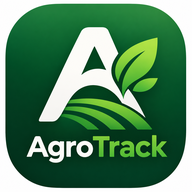
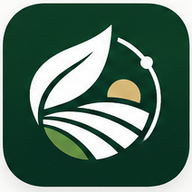
Add files via upload

diff --git a/index.html b/index.html
@@ -1,24 +1,27 @@
 <!doctype html><html lang="el"><head><meta charset="utf-8"><meta name="viewport" content="width=device-width,initial-scale=1">
-<title>AgroTrack v3.7.1</title><script src="https://cdn.jsdelivr.net/npm/@supabase/supabase-js@2"></script>
+<title>GeoFylo v3.8</title><script src="https://cdn.jsdelivr.net/npm/@supabase/supabase-js@2"></script>
 <script src="https://cdn.jsdelivr.net/npm/xlsx@0.18.5/dist/xlsx.full.min.js"></script>
 
 <style>
 body{font-family:system-ui;margin:0;background:#f4f7f2;color:#17301f}.app{max-width:700px;margin:auto;padding:20px}.card{background:white;padding:18px;border-radius:18px;margin:12px 0;border:1px solid #dfe7df}
 input,select,button{width:100%;padding:12px;margin:5px 0;border-radius:10px;border:1px solid #ccd8cd;font-size:16px;box-sizing:border-box}button{background:#216b3a;color:white;font-weight:bold;border:0}.soft{background:#e8f3e8;color:#216b3a}.hidden{display:none}.grid{display:grid;grid-template-columns:1fr 1fr;gap:8px}.metrics{display:grid;grid-template-columns:1fr 1fr;gap:8px}.m{background:#f7faf6;padding:12px;border-radius:12px}.m b{display:block;font-size:20px}small{color:#718078}.entry{display:flex;justify-content:space-between;gap:10px;align-items:center;padding:10px 0;border-bottom:1px solid #edf0ed}.entry:last-child{border-bottom:0}.entryText{flex:1}.entryActions{display:flex;gap:5px}.entryActions button{width:auto;padding:7px 9px;margin:0}.danger{background:#f7eaea;color:#9c2f2f}.voice{background:#365f47}h1{margin-bottom:2px}.quickGrid{display:grid;grid-template-columns:1fr 1fr;gap:10px;margin-top:12px}.quickGrid button{min-height:70px;font-size:17px}.quickVoice{margin-top:10px;min-height:58px;font-size:17px}.quickSummary{margin-top:12px;padding:12px;border-radius:12px;background:#f5f8f5}.quickSummary b{font-size:18px}.barrow{margin:10px 0}.barlabel{display:flex;justify-content:space-between;font-size:13px}.bar{height:10px;background:#edf2ed;border-radius:99px;overflow:hidden}.bar>i{display:block;height:100%;background:#216b3a;border-radius:99px}.reportTitle{display:flex;justify-content:space-between;align-items:center;gap:8px}
-.page{display:none}.page.active{display:block}.bottomNav{background:white;border-bottom:1px solid #dfe7df;display:grid;grid-template-columns:repeat(11,1fr);gap:2px;padding:6px 2px;margin:12px 0}.bottomNav button{background:white;color:#526357;padding:8px 2px;margin:0;font-size:11px;min-height:54px}.bottomNav button.active{background:#e8f3e8;color:#216b3a}.ico{display:block;font-size:20px}.dashGrid{display:grid;grid-template-columns:repeat(2,1fr);gap:8px;margin-top:12px}.dashBox{background:#f7faf6;padding:12px;border-radius:12px;border:1px solid #e4ece4}.dashBox small{display:block}.dashBox b{display:block;font-size:19px;margin-top:3px}.dashAlert{padding:10px 12px;border-radius:10px;background:#fff8e8;margin:7px 0;cursor:pointer}.dashAlert:hover{filter:brightness(.98)}.dashOk{padding:10px 12px;border-radius:10px;background:#eef8ef;margin:7px 0}@media(max-width:480px){.dashGrid{grid-template-columns:1fr 1fr}}</style><meta name="theme-color" content="#216b3a">
+.page{display:none}.page.active{display:block}.bottomNav{background:white;border-bottom:1px solid #dfe7df;display:grid;grid-template-columns:repeat(11,1fr);gap:2px;padding:6px 2px;margin:12px 0}.bottomNav button{background:white;color:#526357;padding:8px 2px;margin:0;font-size:11px;min-height:54px}.bottomNav button.active{background:#e8f3e8;color:#216b3a}.ico{display:block;font-size:20px}.dashGrid{display:grid;grid-template-columns:repeat(2,1fr);gap:8px;margin-top:12px}.dashBox{background:#f7faf6;padding:12px;border-radius:12px;border:1px solid #e4ece4}.dashBox small{display:block}.dashBox b{display:block;font-size:19px;margin-top:3px}.dashAlert{padding:10px 12px;border-radius:10px;background:#fff8e8;margin:7px 0;cursor:pointer}.dashAlert:hover{filter:brightness(.98)}.dashOk{padding:10px 12px;border-radius:10px;background:#eef8ef;margin:7px 0}@media(max-width:480px){.dashGrid{grid-template-columns:1fr 1fr}}
+.brand{display:flex;align-items:center;gap:10px}.brand img{width:46px;height:46px;border-radius:12px;object-fit:cover}
+@media(max-width:700px){.app{padding:14px}.bottomNav{display:flex;overflow-x:auto;overflow-y:hidden;gap:4px;padding:6px 4px;scroll-snap-type:x proximity;-webkit-overflow-scrolling:touch;scrollbar-width:none}.bottomNav::-webkit-scrollbar{display:none}.bottomNav button{flex:0 0 82px;min-width:82px;scroll-snap-align:start;padding:8px 4px;font-size:11px}.ico{font-size:20px}}
+</style><meta name="theme-color" content="#216b3a">
 <meta name="apple-mobile-web-app-capable" content="yes">
 <meta name="apple-mobile-web-app-status-bar-style" content="default">
-<meta name="apple-mobile-web-app-title" content="AgroTrack">
+<meta name="apple-mobile-web-app-title" content="GeoFylo">
 <link rel="manifest" href="./manifest.webmanifest">
 <link rel="apple-touch-icon" href="./icon-192.png">
 </head><body><div class="app">
-<div id="auth"><h1>🌱 AgroTrack</h1><small>v3.7.1 • Cloud</small><div class="card">
+<div id="auth"><h1 class="brand"><img src="./icon-192.png" alt="">GeoFylo</h1><small>v3.8 • Cloud</small><div class="card">
 <h2 id="authTitle">Σύνδεση</h2><div id="nameBox" class="hidden"><input id="name" placeholder="Ονοματεπώνυμο"></div>
 <input id="email" type="email" placeholder="Email"><input id="pass" type="password" placeholder="Κωδικός (6+ χαρακτήρες)">
 <button onclick="submitAuth()" id="authBtn">Σύνδεση</button><button class="soft" onclick="toggleAuth()" id="toggleBtn">Δεν έχω λογαριασμό — Εγγραφή</button>
 <p id="msg"></p></div></div>
 
-<div id="main" class="hidden"><h1>🌱 AgroTrack</h1><small id="who"></small><nav class="bottomNav"><button id="nav-home" class="active" onclick="showPage('home')"><span class="ico">🏠</span>Αρχική</button><button id="nav-entry" onclick="showPage('entry')"><span class="ico">➕</span>Καταχώρηση</button><button id="nav-movements" onclick="showPage('movements')"><span class="ico">🧾</span>Κινήσεις</button><button id="nav-calendar" onclick="showPage('calendar')"><span class="ico">📅</span>Ημερολόγιο</button><button id="nav-reports" onclick="showPage('reports')"><span class="ico">📊</span>Αναφορές</button><button id="nav-customers" onclick="showPage('customers')"><span class="ico">👥</span>Πελάτες</button><button id="nav-payments" onclick="showPage('payments')"><span class="ico">💳</span>Πληρωμές</button><button id="nav-inventory" onclick="showPage('inventory')"><span class="ico">📦</span>Αποθήκη</button><button id="nav-suppliers" onclick="showPage('suppliers')"><span class="ico">🏪</span>Προμηθευτές</button><button id="nav-cashflow" onclick="showPage('cashflow')"><span class="ico">💰</span>Ταμείο</button><button id="nav-profile" onclick="showPage('profile')"><span class="ico">👤</span>Προφίλ</button></nav>
+<div id="main" class="hidden"><h1 class="brand"><img src="./icon-192.png" alt="">GeoFylo</h1><small id="who"></small><nav class="bottomNav"><button id="nav-home" class="active" onclick="showPage('home')"><span class="ico">🏠</span>Αρχική</button><button id="nav-entry" onclick="showPage('entry')"><span class="ico">➕</span>Καταχώρηση</button><button id="nav-movements" onclick="showPage('movements')"><span class="ico">🧾</span>Κινήσεις</button><button id="nav-calendar" onclick="showPage('calendar')"><span class="ico">📅</span>Ημερολόγιο</button><button id="nav-reports" onclick="showPage('reports')"><span class="ico">📊</span>Αναφορές</button><button id="nav-customers" onclick="showPage('customers')"><span class="ico">👥</span>Πελάτες</button><button id="nav-payments" onclick="showPage('payments')"><span class="ico">💳</span>Πληρωμές</button><button id="nav-inventory" onclick="showPage('inventory')"><span class="ico">📦</span>Αποθήκη</button><button id="nav-suppliers" onclick="showPage('suppliers')"><span class="ico">🏪</span>Προμηθευτές</button><button id="nav-cashflow" onclick="showPage('cashflow')"><span class="ico">💰</span>Ταμείο</button><button id="nav-profile" onclick="showPage('profile')"><span class="ico">👤</span>Προφίλ</button></nav>
 <div id="page-home" class="page active"><div class="card" id="producerHome">
 <h2 style="margin:0" id="tQuick">🌱 Γρήγορη καταχώρηση</h2>
 <small id="tChoose">Επίλεξε τι θέλεις να καταχωρήσεις</small>
@@ -229,15 +232,15 @@ async function exportPDF(){
    ...(sa||[]).map(x=>[x.sale_date,'Πώληση'+(x.grade?' ('+(x.grade==='SKARTA'?'Σκάρτα':x.grade)+')':''),x.kg+' kg × '+money(x.price_per_kg),money(Number(x.kg)*Number(x.price_per_kg)),x.buyer||x.note||'']),
    ...(ac||[]).map(x=>[x.activity_date,'Εργασία',x.activity_type,'',x.note||''])
   ].sort((a,b)=>b[0].localeCompare(a[0]));
-  const html=`<!doctype html><html lang="el"><head><meta charset="utf-8"><title>AgroTrack Αναφορά</title><style>
+  const html=`<!doctype html><html lang="el"><head><meta charset="utf-8"><title>GeoFylo Αναφορά</title><style>
   body{font-family:Arial,sans-serif;color:#17251b;margin:32px}h1{color:#174f2c;margin-bottom:4px}h2{margin-top:28px}.muted{color:#66736a}.grid{display:grid;grid-template-columns:repeat(3,1fr);gap:10px}.box{border:1px solid #d9e2da;border-radius:10px;padding:12px}.big{font-size:22px;font-weight:bold}table{width:100%;border-collapse:collapse;margin-top:10px;font-size:12px}th,td{border-bottom:1px solid #ddd;padding:7px;text-align:left}th{background:#eef5ef}@media print{body{margin:12mm}.noPrint{display:none}}@page{size:A4;margin:12mm}</style></head><body>
-  <h1>🌱 AgroTrack</h1><div class="muted">Αναφορά Παραγωγού</div>
+  <h1>🌱 GeoFylo</h1><div class="muted">Αναφορά Παραγωγού</div>
   <h2>👤 Στοιχεία Παραγωγού</h2><table><tbody><tr><th>Ονοματεπώνυμο</th><td>${esc(profile?.full_name||user.user_metadata?.full_name||'—')}</td></tr><tr><th>Επωνυμία εκμετάλλευσης</th><td>${esc(profile?.farm_name||'—')}</td></tr><tr><th>Περιοχή</th><td>${esc(profile?.area||'—')}</td></tr><tr><th>Τηλέφωνο</th><td>${esc(profile?.phone||'—')}</td></tr></tbody></table>
   <h2>${esc(greenhouse.name)}</h2><p><b>Περίοδος:</b> ${esc(season.name)} &nbsp; <b>Καλλιέργεια:</b> ${esc(greenhouse.crop)} &nbsp; <b>Έκταση:</b> ${esc(greenhouse.area)} στρ.</p>
   <div class="grid"><div class="box">Παραγωγή<div class="big">${production.toLocaleString('el-GR')} kg</div></div><div class="box">Έσοδα<div class="big">${money(income)}</div></div><div class="box">Έξοδα<div class="big">${money(expenses)}</div></div><div class="box">Καθαρό αποτέλεσμα<div class="big">${money(result)}</div></div><div class="box">Μέση τιμή<div class="big">${money(avg)}/kg</div></div><div class="box">Κόστος<div class="big">${money(cost)}/kg</div></div></div>
   <h2>Διαλογή πωλήσεων</h2><table><thead><tr><th>Κατηγορία</th><th>Κιλά</th><th>Έσοδα</th><th>Μέση τιμή/kg</th></tr></thead><tbody>${['A','B','SKARTA'].map(gr=>`<tr><td>${gr==='SKARTA'?'Σκάρτα':gr}</td><td>${grades[gr].kg.toLocaleString('el-GR')} kg</td><td>${money(grades[gr].income)}</td><td>${grades[gr].kg?money(grades[gr].income/grades[gr].kg):'—'}</td></tr>`).join('')}</tbody></table><h2>Πωλήσεις ανά πελάτη / έμπορο</h2><table><thead><tr><th>Πελάτης</th><th>Κιλά</th><th>Α</th><th>Β</th><th>Σκάρτα</th><th>Έσοδα</th><th>Μέση τιμή/kg</th></tr></thead><tbody>${Object.entries((sa||[]).reduce((o,x)=>{const n=x.buyer||'Χωρίς πελάτη';o[n]??={kg:0,income:0,A:0,B:0,SKARTA:0};o[n].kg+=Number(x.kg||0);o[n].income+=Number(x.kg||0)*Number(x.price_per_kg||0);if(['A','B','SKARTA'].includes(x.grade))o[n][x.grade]+=Number(x.kg||0);return o},{})).map(([n,v])=>`<tr><td>${esc(n)}</td><td>${v.kg.toLocaleString('el-GR')}</td><td>${v.A.toLocaleString('el-GR')}</td><td>${v.B.toLocaleString('el-GR')}</td><td>${v.SKARTA.toLocaleString('el-GR')}</td><td>${money(v.income)}</td><td>${v.kg?money(v.income/v.kg):'—'}</td></tr>`).join('')||'<tr><td colspan="7">Δεν υπάρχουν πωλήσεις</td></tr>'}</tbody></table><h2>💳 Πληρωμές & Υπόλοιπα πελατών</h2><div class="grid"><div class="box">Σύνολο πωλήσεων πελατών<div class="big">${money(totalCustomerSales)}</div></div><div class="box">Σύνολο πληρωμών<div class="big">${money(totalPayments)}</div></div><div class="box">Συνολικό υπόλοιπο<div class="big">${money(totalBalance)}</div></div></div><table><thead><tr><th>Πελάτης</th><th>Πωλήσεις</th><th>Πληρωμές</th><th>Υπόλοιπο</th></tr></thead><tbody>${(customers||[]).map(c=>{const sv=allSalesByName[c.name]||0,pv=paidById[c.id]||0;return `<tr><td>${esc(c.name)}</td><td>${money(sv)}</td><td>${money(pv)}</td><td>${money(sv-pv)}</td></tr>`}).join('')||'<tr><td colspan="4">Δεν υπάρχουν πελάτες</td></tr>'}</tbody></table><h3>Ιστορικό πληρωμών</h3><table><thead><tr><th>Ημερομηνία</th><th>Πελάτης</th><th>Ποσό</th><th>Τρόπος</th><th>Σημείωση</th></tr></thead><tbody>${(payments||[]).map(x=>`<tr><td>${esc(x.payment_date)}</td><td>${esc(customerById[x.customer_id]||'')}</td><td>${money(x.amount)}</td><td>${esc(x.payment_method||'')}</td><td>${esc(x.note||'')}</td></tr>`).join('')||'<tr><td colspan="5">Δεν υπάρχουν πληρωμές</td></tr>'}</tbody></table><h2>📦 Κατανάλωση & Κόστος Εφοδίων</h2><div class="grid"><div class="box">Συνολικό κόστος εφοδίων<div class="big">${money(pdfUsageCost)}</div></div><div class="box">Κόστος / στρέμμα<div class="big">${Number(greenhouse.area||0)?money(pdfUsageCost/Number(greenhouse.area)):'—'}</div></div></div><table><thead><tr><th>Εφόδιο</th><th>Ποσότητα</th><th>Κόστος</th></tr></thead><tbody>${Object.entries(pdfUsageAgg).map(([n,v])=>`<tr><td>${esc(n)}</td><td>${v.qty.toLocaleString('el-GR')} ${esc(v.unit)}</td><td>${money(v.cost)}</td></tr>`).join('')||'<tr><td colspan="3">Δεν υπάρχουν καταναλώσεις εφοδίων</td></tr>'}</tbody></table><h2>🧾 Αγορές Εφοδίων</h2><table><thead><tr><th>Ημερομηνία</th><th>Εφόδιο</th><th>Ποσότητα</th><th>Τιμή μονάδας</th><th>Σύνολο</th><th>Προμηθευτής / Παραστατικό</th></tr></thead><tbody>${(purchases||[]).map(x=>{const it=pdfInvById[x.inventory_id]||{};return `<tr><td>${esc(x.purchase_date)}</td><td>${esc(it.name||'')}</td><td>${Number(x.quantity||0).toLocaleString('el-GR')} ${esc(it.unit||'')}</td><td>${money(x.unit_cost)}</td><td>${money(Number(x.quantity||0)*Number(x.unit_cost||0))}</td><td>${esc(x.supplier||'')}${x.document_number?' • '+esc(x.document_number):''}</td></tr>`}).join('')||'<tr><td colspan="6">Δεν υπάρχουν αγορές εφοδίων</td></tr>'}</tbody></table><h2>Έξοδα ανά κατηγορία</h2><table><thead><tr><th>Κατηγορία</th><th>Ποσό</th></tr></thead><tbody>${Object.entries(cat).map(([k,v])=>`<tr><td>${esc(k)}</td><td>${money(v)}</td></tr>`).join('')||'<tr><td colspan="2">Δεν υπάρχουν έξοδα</td></tr>'}</tbody></table>
   <h2>Κινήσεις</h2><table><thead><tr><th>Ημερομηνία</th><th>Τύπος</th><th>Στοιχεία</th><th>Ποσό</th><th>Σημείωση</th></tr></thead><tbody>${rows.map(r=>`<tr>${r.map(v=>`<td>${esc(v)}</td>`).join('')}</tr>`).join('')||'<tr><td colspan="5">Δεν υπάρχουν κινήσεις</td></tr>'}</tbody></table>
-  <p class="muted">Δημιουργήθηκε από το AgroTrack</p><script>window.onload=()=>setTimeout(()=>window.print(),300)<\/script></body></html>`;
+  <p class="muted">Δημιουργήθηκε από το GeoFylo</p><script>window.onload=()=>setTimeout(()=>window.print(),300)<\/script></body></html>`;
   const win=window.open('','_blank');
   if(!win){alert('Επίτρεψε τα αναδυόμενα παράθυρα για να δημιουργηθεί το PDF.');return}
   win.document.open();win.document.write(html);win.document.close();
@@ -280,7 +283,7 @@ async function exportExcel(){
   const excelTotalBalance=excelTotalCustomerSales-excelTotalPayments;
   const wb=XLSX.utils.book_new();
   const summary=[
-   ['AgroTrack - Αναφορά Παραγωγού',''],
+   ['GeoFylo - Αναφορά Παραγωγού',''],
    ['Περίοδος',season?.name||''],
    ['Αγροτεμάχιο',greenhouse?.name||''],
    ['Καλλιέργεια',greenhouse?.crop||''],
@@ -310,8 +313,8 @@ async function exportExcel(){
   XLSX.utils.book_append_sheet(wb,XLSX.utils.json_to_sheet(xUsageRows),'Κατανάλωση εφοδίων');
   XLSX.utils.book_append_sheet(wb,XLSX.utils.json_to_sheet((purchases||[]).map(x=>{const it=xInvById[x.inventory_id]||{};return {'Ημερομηνία':x.purchase_date,'Εφόδιο':it.name||'','Ποσότητα':Number(x.quantity||0),'Μονάδα':it.unit||'','Τιμή μονάδας €':Number(x.unit_cost||0),'Σύνολο €':Number(x.quantity||0)*Number(x.unit_cost||0),'Προμηθευτής':x.supplier||'','Παραστατικό':x.document_number||'','Σημείωση':x.note||''}})),'Αγορές εφοδίων');
   XLSX.utils.book_append_sheet(wb,XLSX.utils.json_to_sheet((ac||[]).map(x=>({'Ημερομηνία':x.activity_date,'Εργασία':x.activity_type,'Σημείωση':x.note||''}))),'Εργασίες');
-  const clean=v=>String(v||'AgroTrack').replace(/[\\/:*?"<>|]/g,'-');
-  XLSX.writeFile(wb,`AgroTrack_${clean(greenhouse?.name)}_${clean(season?.name)}.xlsx`);
+  const clean=v=>String(v||'GeoFylo').replace(/[\\/:*?"<>|]/g,'-');
+  XLSX.writeFile(wb,`GeoFylo_${clean(greenhouse?.name)}_${clean(season?.name)}.xlsx`);
  }catch(err){console.error(err);alert('Δεν μπόρεσε να δημιουργηθεί το Excel: '+(err.message||err))}
 }
 

diff --git a/sw.js b/sw.js
@@ -1,4 +1,4 @@
-const CACHE='agrotrack-v3.7.1-cashflow';
+const CACHE='geofylo-v3.8-brand-mobile-menu';
 const ASSETS=['./','./index.html','./manifest.webmanifest','./icon-192.png','./icon-512.png'];
 self.addEventListener('install',e=>{self.skipWaiting();e.waitUntil(caches.open(CACHE).then(c=>c.addAll(ASSETS)))});
 self.addEventListener('activate',e=>{e.waitUntil(caches.keys().then(keys=>Promise.all(keys.filter(k=>k!==CACHE).map(k=>caches.delete(k)))).then(()=>self.clients.claim()))});
